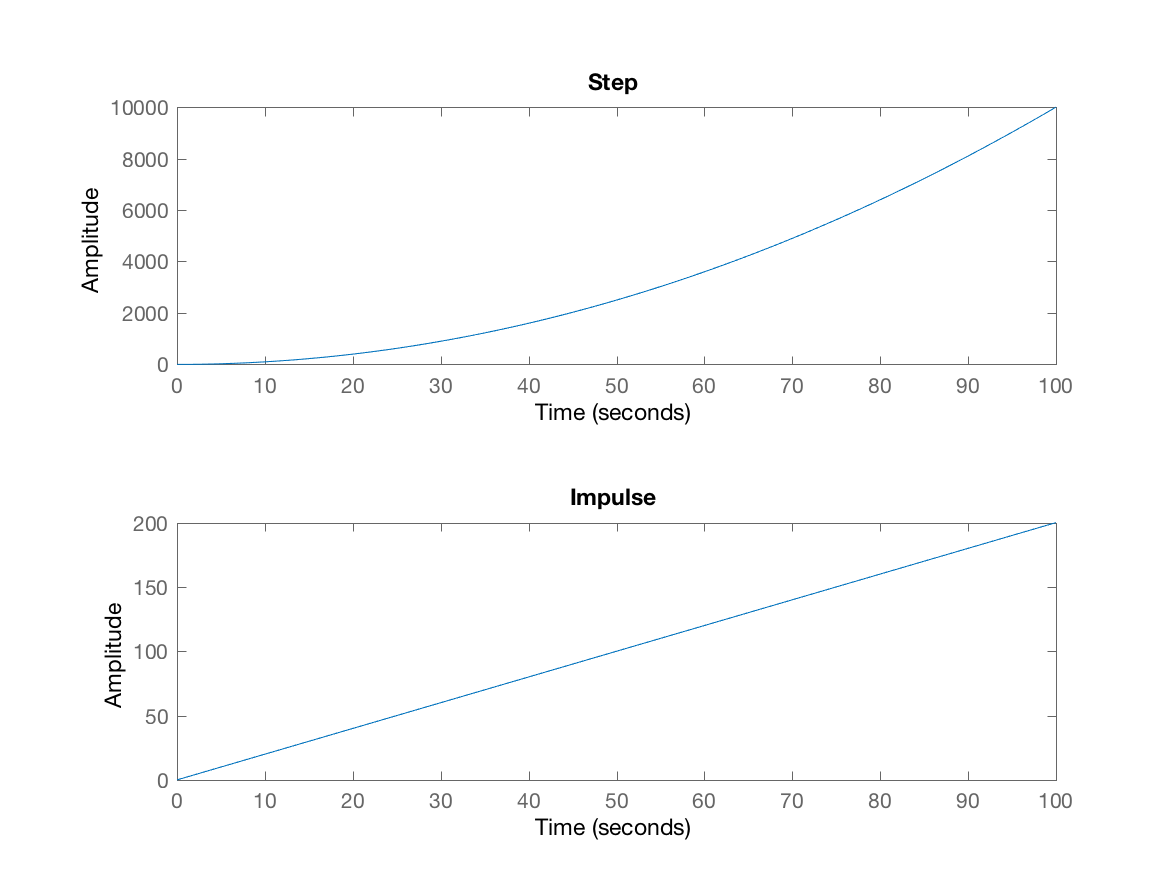
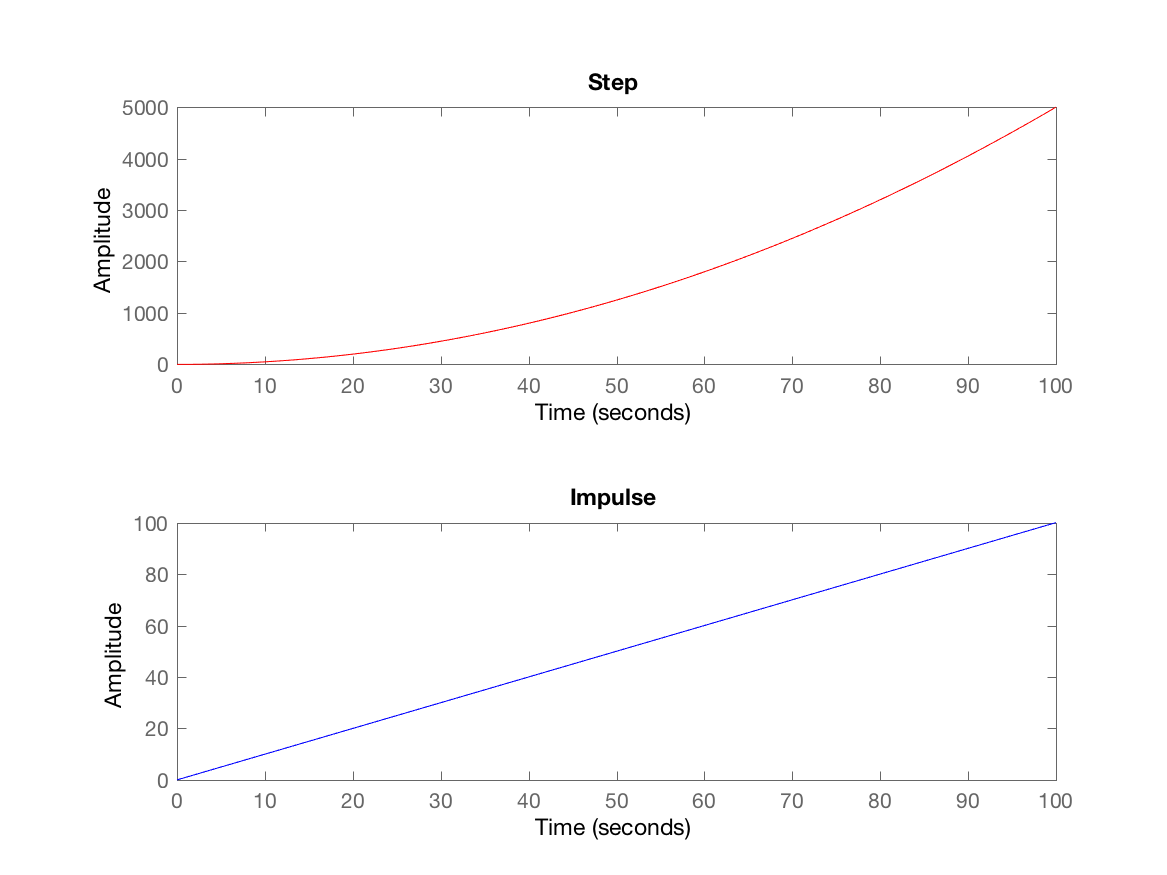
final clean up.

diff --git a/assignment-1/satellite_model.m b/assignment-1/satellite_model.m
@@ -38,12 +38,34 @@ s = tf('s');
 % Define time sample for our plots from t=0 to 100s.
 timesample = (0:1:100);
 
-% a) Plot the responses for t=0 to 100 s.
-
-% b) Set up the transfer function of the system.
-
 % Define the transfer function.
 H = 1/s^2;
+
+% a) Plot the responses for t=0 to 100s with functions calculated by hand.
+I = 1;
+impulse_h = timesample / I;
+step_h = sqrt(timesample / I);
+
+figure_si_hand = figure;
+set(figure_si_hand, 'NumberTitle', 'on', ...
+    'Name', 'Step and Impulse Plots by Hand Calculation', ...
+    'Visible', plot_visibility);
+
+subplot (2, 1, 1)
+plot(step_h, timesample, 'r')
+title('Step by Hand Calculation');
+xlabel('Time (seconds)') % x-axis label
+ylabel('Amplitude') % y-axis label
+subplot(2, 1, 2)
+plot(impulse_h, timesample, 'b')
+title('Impulse by Hand Calculation');
+xlabel('Time (seconds)') % x-axis label
+ylabel('Amplitude') % y-axis label
+
+% Export the plot as a png file.
+print('exports/fig-step-and-impulse-by-hand', '-dpng');
+
+% b) Use stepplot and impulseplot functions.
 
 % Build the Step and Impulse subplot figure.
 fig_si = figure;
@@ -52,15 +74,14 @@ set(fig_si, 'NumberTitle', 'on', ...
     'Visible', plot_visibility);
 
 % Step plot.
-subplot(2,1,1);
-stepplot(H, timesample)
+subplot(2, 1, 1);
+stepplot(H, timesample, 'r')
 title ('Step');
 
 % Impulse plot.
-subplot(2,1,2);
-impulseplot(H, timesample)
+subplot(2, 1, 2);
+impulseplot(H, timesample, 'b')
 title ('Impulse');
 
 % Export the plot as a png file.
 print('exports/fig-step-and-impulse', '-dpng');
-

diff --git a/assignment-1/pd_controller.m b/assignment-1/pd_controller.m
@@ -206,3 +206,19 @@ for zeta = [0.2, 0.5, 0.7, 1, 2, 5]
     stepinfo(H)
 end
 
+%%%
+% f) Use the MATLAB command pole to study the roots of the nominator of
+% the transfer function for the different parameter setting. 
+%%%
+for Kd= [0, 0.4, 1, 2, 4, 10]
+    H=tf((K/I), [1, (Kd/I), (K/I)]);
+    t=(0:0.5:20);
+
+    figure;
+    subplot (2, 1, 1);
+    stepplot(H, t, 'r');
+    subplot(2, 1, 2);
+    impulseplot(H, t, 'b');
+    
+    p = pole(H) % command pole to study the roots of the nominator of tf.
+end
